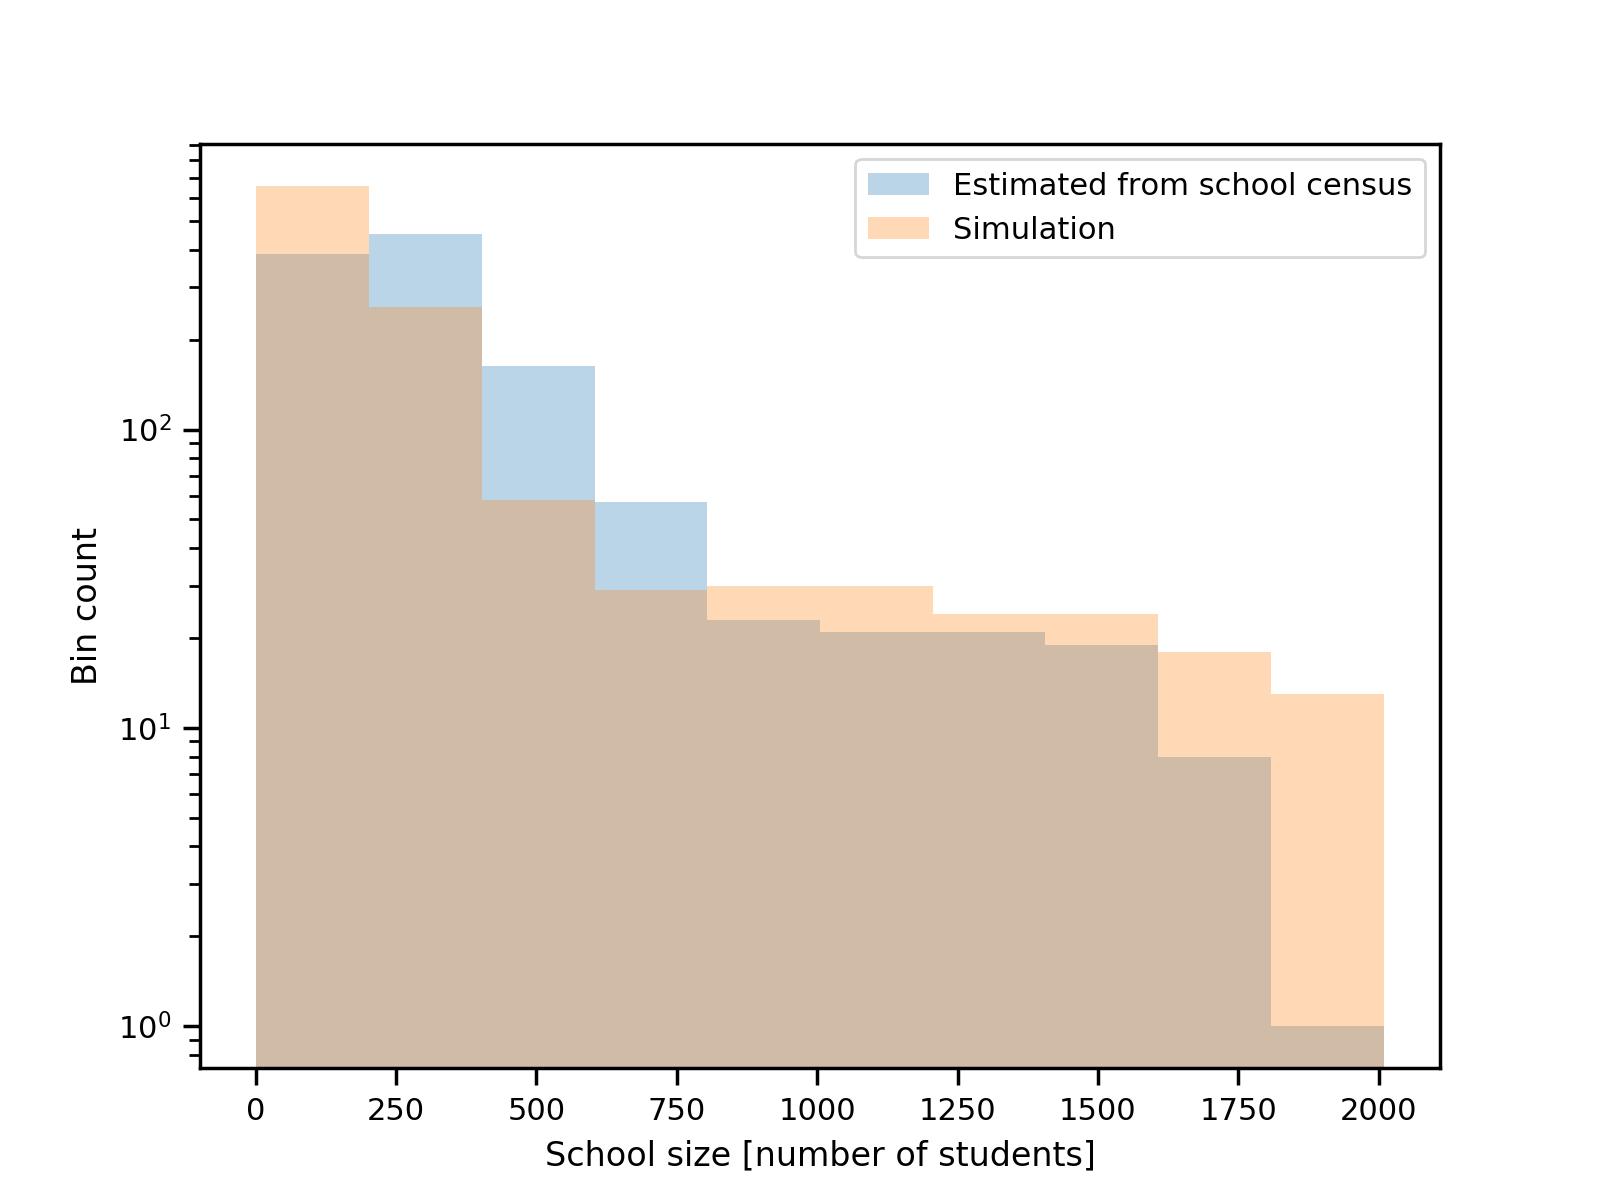
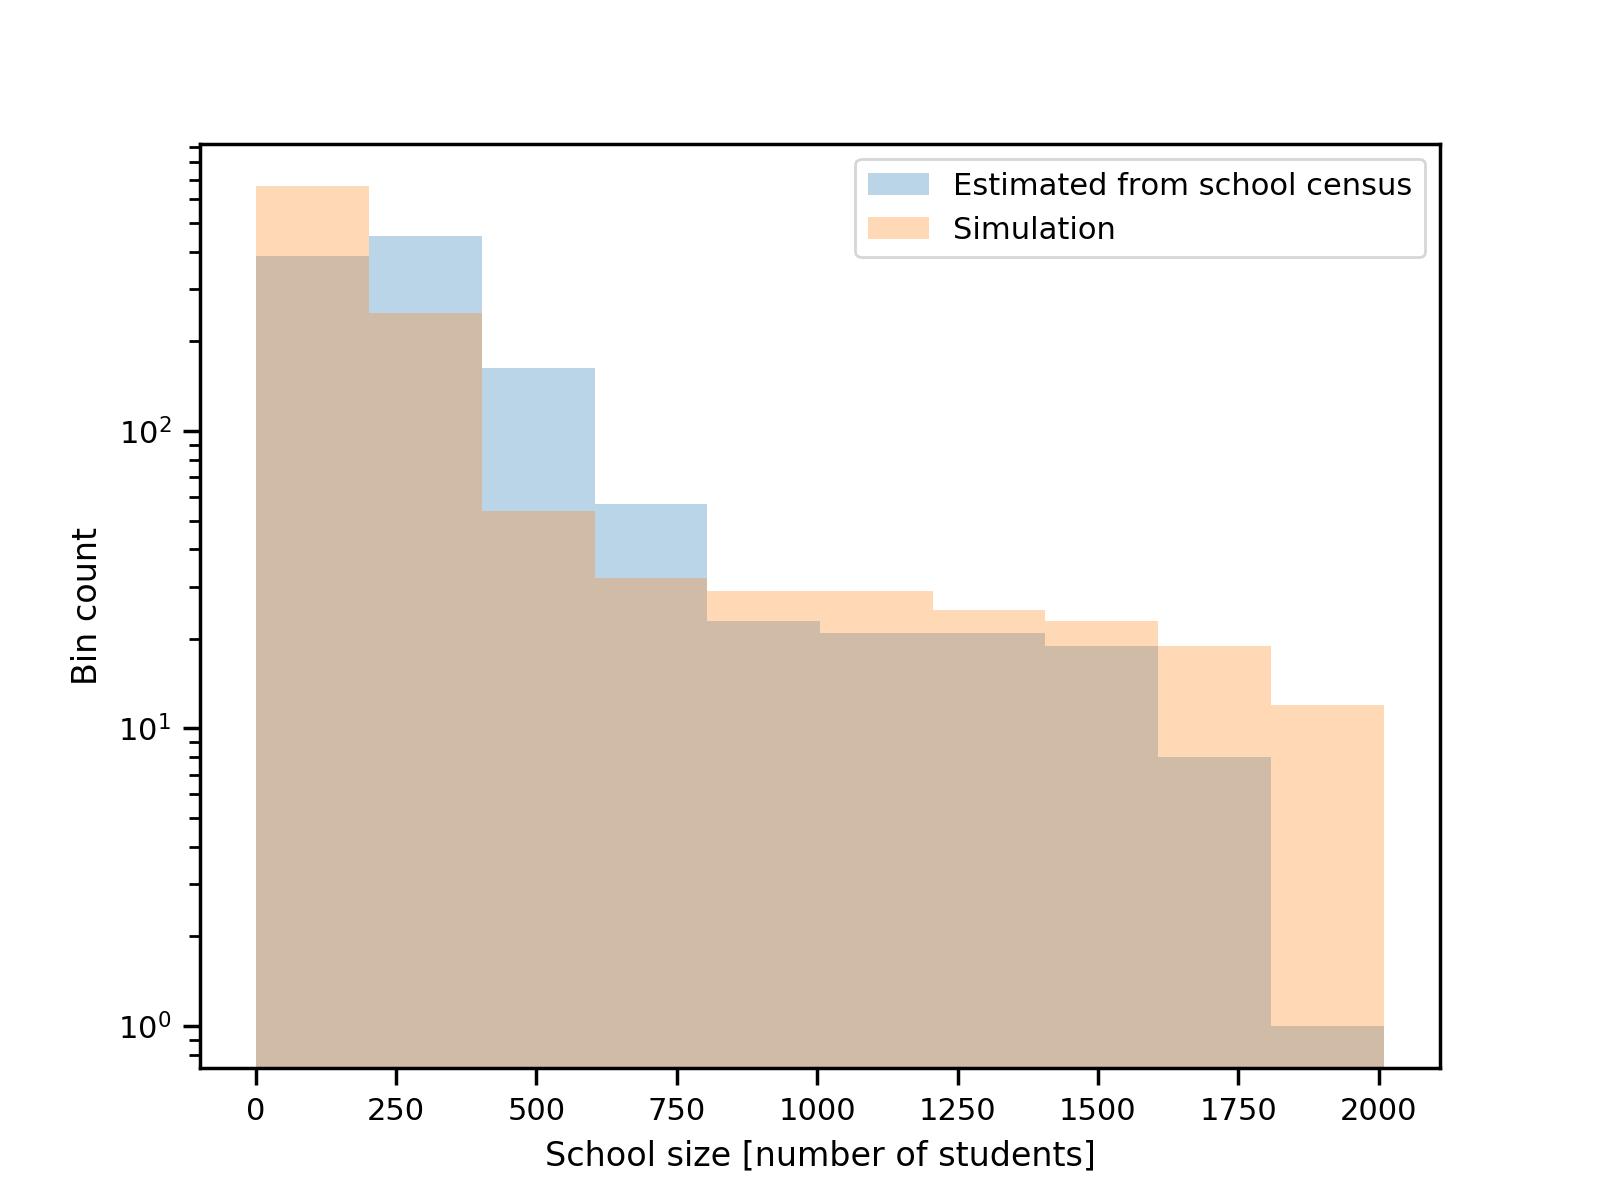
fixed school tests

diff --git a/plot_tests/school_distance.py b/plot_tests/school_distance.py
@@ -1,6 +1,7 @@
 from collections import Counter
 import pandas as pd
 from covid.inputs import Inputs 
+from covid.world import World
 import matplotlib.pyplot as plt
 import seaborn as sns
 import pickle
@@ -8,13 +9,6 @@ import numpy as np
 import math
 
 sns.set_context('paper')
-
-
-def load_world(path2world):
-
-    with open(path2world, 'rb') as f:
-        world = pickle.load(f)
-    return world
 
 
 def distance(origin, destination):
@@ -36,13 +30,13 @@ def kids_school_distance(world, KIDS_LOW=1, KIDS_UP=6):
 
     distance_school = []
     lost_kids = 0 
-    for i in world.areas.keys():
-        for j in world.areas[i].people.keys():
-            if (world.areas[i].people[j].age >= KIDS_LOW) and (world.areas[i].people[j].age <= KIDS_UP):
+    for i in range(len(world.areas.members)):
+        for j in range(len(world.areas.members[i].people):
+            if (world.areas.members[i].people[j].age >= KIDS_LOW) and (world.areas.members[i].people[j].age <= KIDS_UP):
                 try:
-                    school_coordinates = world.areas[i].people[j].school.coordinates
+                    school_coordinates = world.areas.members[i].people[j].school.coordinates
                     distance_school.append(
-                                    distance(world.areas[i].coordinates,
+                                    distance(world.areas.members[i].coordinates,
                                         school_coordinates)
                                     )
                 except:
@@ -52,9 +46,7 @@ def kids_school_distance(world, KIDS_LOW=1, KIDS_UP=6):
 
 if __name__=='__main__':
 
-    WORLD_PATH = '/cosma7/data/dp004/dc-quer1/world.pkl'
-    with open(WORLD_PATH, 'rb') as f:
-            world = pickle.load(f)
+    world = World.from_pickle()
 
     distance_school = kids_school_distance(world)
     distance_young = kids_school_distance(world, 1, 3)

diff --git a/plot_tests/school_size.py b/plot_tests/school_size.py
@@ -1,6 +1,7 @@
 from collections import Counter
 import pandas as pd
 from covid.inputs import Inputs 
+from covid.world import World
 import matplotlib.pyplot as plt
 import seaborn as sns
 import pickle
@@ -8,26 +9,18 @@ import pickle
 sns.set_context('paper')
 
 
-def load_world(path2world):
-
-    with open(path2world, 'rb') as f:
-        world = pickle.load(f)
-    return world
 
 def school_size(world):
     sizes, sizes_est = [], []
-    for i in world.schools.keys():
-        if len(world.schools[i].pupils) >0:
-            sizes.append(world.schools[i].n_pupils_max)
-            sizes_est.append(len(world.schools[i].pupils))
+    for i in range(len(world.schools.members)):
+        if len(world.schools.members[i].people) >0:
+            sizes.append(world.schools.members[i].n_pupils_max)
+            sizes_est.append(len(world.schools.members[i].people))
 
     return sizes, sizes_est
 
 if __name__=='__main__':
-    WORLD_PATH = '/cosma7/data/dp004/dc-quer1/world.pkl'
-    with open(WORLD_PATH, 'rb') as f:
-            world = pickle.load(f)
-
+    world = World.from_pickle()
     size_school, size_school_est = school_size(world)
 
     bins =plt.hist(size_school, 

diff --git a/tests/test_schools.py b/tests/test_schools.py
@@ -10,22 +10,20 @@ sns.set_context('paper')
 
 def test_number_schools():
 
-    #world = load_world('/cosma7/data/dp004/dc-quer1/world.pkl')
-    world = World()
+    world = World.from_pickle()
     inputs = Inputs()
-    assert len(world.schools) ==  len(inputs.school_df)
+    assert len(world.schools.members) ==  len(inputs.school_df)
 
 def test_all_kids_school():
     
-    #world = load_world('/cosma7/data/dp004/dc-quer1/world.pkl')
-    world = World()
+    world = World.from_pickle()
     KIDS_LOW = 1
     KIDS_UP = 5
     lost_kids = 0
-    for i in world.areas.members:
-        for j in world.areas[i].people.members:
-            if (world.areas[i].people[j].age >= KIDS_LOW) and (world.areas[i].people[j].age <= KIDS_UP):
-                if world.areas[i].people[j].school is None:
+    for i in range(len(world.areas.members)):
+        for j in range(len(world.areas.members[i].people)):
+            if (world.areas.members[i].people[j].age >= KIDS_LOW) and (world.areas.members[i].people[j].age <= KIDS_UP):
+                if world.areas.members[i].people[j].school is None:
                     lost_kids += 1
 
 
